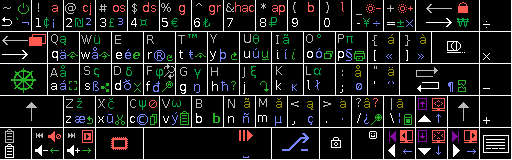
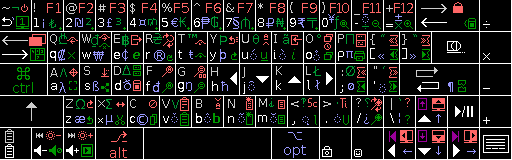
Make key names and locations more familiar

diff --git a/kbrd/src/keycodes.rs b/kbrd/src/keycodes.rs
@@ -264,7 +264,7 @@ impl Into<u8> for Keycode {
     }
 }
 
-/// Rynvei Keyboard Keycode
+/// Key on a Keyboard
 #[repr(u8)]
 #[derive(Copy, Clone, Debug)]
 pub enum Key {
@@ -285,7 +285,7 @@ pub enum Key {
     Backspace = 0x0D,
     Divide = 0x0F,
     // Row 2
-    Indent = 0x10,
+    Tab = 0x10,
     Q = 0x11,
     W = 0x12,
     E = 0x13,
@@ -301,7 +301,7 @@ pub enum Key {
     Compose = 0x1D,
     Multiply = 0x1F,
     // Row 3
-    Command = 0x20,
+    Ctrl = 0x20,
     A = 0x21,
     S = 0x22,
     D = 0x23,
@@ -335,7 +335,7 @@ pub enum Key {
     Clipboard = 0x40,
     Quieter = 0x41,
     Louder = 0x42,
-    System = 0x43,
+    Alt = 0x43,
     Space = 0x44,
     Opt = 0x48,
     Screenshot = 0x4A,
@@ -404,12 +404,12 @@ pub struct Mods(u8);
 impl Mods {
     /// Check if modifiers held.
     #[inline(always)]
-    pub fn held(&self, shift: bool, command: bool, system: bool, option: bool) -> bool {
+    pub fn held(&self, shift: bool, control: bool, alt: bool, option: bool) -> bool {
         let state = (shift as u8 * CAP)
-            | (command as u8 * CMD)
-            | (system as u8 * SYS)
-            | (option as u8 * ALT);
-        (self.0 & (CAP | CMD | SYS | ALT)) != state
+            | (control as u8 * CTR)
+            | (alt as u8 * ALT)
+            | (option as u8 * OPT);
+        (self.0 & (CAP | CTR | ALT | OPT)) != state
     }
 
     /// Clear modifiers
@@ -424,26 +424,26 @@ impl Mods {
 }
 
 /// Shift Modifier Key
-const CAP: u8 = 0b1000_0000;
+pub(super) const CAP: u8 = 0b1000_0000;
 /// Command Modifier Key
-const CMD: u8 = 0b0100_0000;
+pub(super) const ALT: u8 = 0b1100_0000;
 /// Control Modifier Key
-const SYS: u8 = 0b0010_0000;
+pub(super) const CTR: u8 = 0b0100_0000;
 /// Alternate Grapheme Modifier Key
-const ALT: u8 = 0b0001_0000;
+pub(super) const OPT: u8 = 0b0010_0000;
 
 /// Table Mappings JavaScript Keycodes To Rynvei Keycodes
 pub const MAPPINGS: &[Option<&[(Key, Mods)]>; 255] = &[
     None,                                                  // Unknown0 = 0,
     None,                                                  // Unknown1 = 1,
     None,                                                  // Unknown2 = 2,
-    Some(&[(Key::C, Mods(CMD))]),                          // Break = 3, "Cancel"
+    Some(&[(Key::C, Mods(ALT))]),                          // Break = 3, "Cancel"
     None,                                                  // Unknown4 = 4,
     None,                                                  // Unknown5 = 5,
     None,                                                  // Unknown6 = 6,
     None,                                                  // Unknown7 = 7,
     Some(&[(Key::Backspace, Mods(0))]),                    // Backspace = 8,
-    Some(&[(Key::Indent, Mods(0))]),                       // Tab = 9,
+    Some(&[(Key::Tab, Mods(0))]),                          // Tab = 9,
     None,                                                  // Unknown10 = 10,
     None,                                                  // Unknown11 = 11,
     Some(&[(Key::Clear, Mods(0))]),                        // Clear = 12,
@@ -451,10 +451,10 @@ pub const MAPPINGS: &[Option<&[(Key, Mods)]>; 255] = &[
     None,                                                  // Unknown14 = 14,
     None,                                                  // Unknown15 = 15,
     Some(&[(Key::Shift, Mods(0))]),                        // Shift = 16,
-    Some(&[(Key::System, Mods(0))]),                       // Ctrl = 17,
-    Some(&[(Key::Clipboard, Mods(0))]),                    // Alt = 18,
+    Some(&[(Key::Ctrl, Mods(0))]),                         // Ctrl = 17,
+    Some(&[(Key::Alt, Mods(0))]),                          // Alt = 18,
     Some(&[(Key::Pause, Mods(0))]),                        // PauseBreak = 19,
-    Some(&[(Key::Command, Mods(0))]),                      // CapsLock = 20,
+    Some(&[(Key::Clipboard, Mods(0))]),                    // CapsLock = 20,
     Some(&[(Key::Input, Mods(0)), (Key::One, Mods(0))]),   // Hangul = 21,
     None,                                                  // Unknown22 = 22,
     None,                                                  // Unknown23 = 23,
@@ -466,10 +466,10 @@ pub const MAPPINGS: &[Option<&[(Key, Mods)]>; 255] = &[
     None,                                                  // Unknown30 = 30,
     None,                                                  // Unknown31 = 31,
     Some(&[(Key::Space, Mods(0))]),                        // Space = 32,
-    Some(&[(Key::Up, Mods(SYS))]),                         // PageUp = 33,
-    Some(&[(Key::Down, Mods(SYS))]),                       // PageDown = 34,
-    Some(&[(Key::Left, Mods(SYS | CAP))]),                 // End = 35,
-    Some(&[(Key::Right, Mods(SYS | CAP))]),                // Home = 36,
+    Some(&[(Key::Up, Mods(CTR))]),                         // PageUp = 33,
+    Some(&[(Key::Down, Mods(CTR))]),                       // PageDown = 34,
+    Some(&[(Key::Left, Mods(CTR | CAP))]),                 // End = 35,
+    Some(&[(Key::Right, Mods(CTR | CAP))]),                // Home = 36,
     Some(&[(Key::Left, Mods(0))]),                         // Left = 37,
     Some(&[(Key::Up, Mods(0))]),                           // Up = 38,
     Some(&[(Key::Right, Mods(0))]),                        // Right = 39,
@@ -480,7 +480,7 @@ pub const MAPPINGS: &[Option<&[(Key, Mods)]>; 255] = &[
     Some(&[(Key::Screenshot, Mods(0))]),                   // PrintScreen = 44,
     Some(&[(Key::Input, Mods(0))]),                        // Insert = 45,
     Some(&[(Key::Backspace, Mods(CAP))]),                  // Delete = 46,
-    Some(&[(Key::H, Mods(SYS))]),                          // Help = 47,
+    Some(&[(Key::H, Mods(CTR))]),                          // Help = 47,
     Some(&[(Key::Zero, Mods(0))]),                         // Zero = 48,
     Some(&[(Key::One, Mods(0))]),                          // One = 49,
     Some(&[(Key::Two, Mods(0))]),                          // Two = 50,
@@ -496,7 +496,7 @@ pub const MAPPINGS: &[Option<&[(Key, Mods)]>; 255] = &[
     Some(&[(Key::Comma, Mods(CAP))]),                      // Less = 60,
     Some(&[(Key::Equal, Mods(0))]),                        // EqualFirefox = 61,
     None,                                                  // Unknown62 = 62,
-    Some(&[(Key::S, Mods(ALT))]),                          // SS = 63,
+    Some(&[(Key::S, Mods(OPT))]),                          // SS = 63,
     Some(&[(Key::Two, Mods(CAP))]),                        // AtFirefox = 64,
     Some(&[(Key::A, Mods(0))]),                            // A = 65,
     Some(&[(Key::B, Mods(0))]),                            // B = 66,
@@ -524,11 +524,11 @@ pub const MAPPINGS: &[Option<&[(Key, Mods)]>; 255] = &[
     Some(&[(Key::X, Mods(0))]),                            // X = 88,
     Some(&[(Key::Y, Mods(0))]),                            // Y = 89,
     Some(&[(Key::Z, Mods(0))]),                            // Z = 90,
-    Some(&[(Key::System, Mods(0))]),                       // LeftWinCmdSearchKey = 91,
+    Some(&[(Key::Ctrl, Mods(0))]),                         // LeftWinCmdSearchKey = 91,
     Some(&[(Key::Input, Mods(0))]),                        // RightWinKey = 92,
     Some(&[(Key::Menu, Mods(0))]),                         // MenuRightCmd = 93,
     None,                                                  // Unknown94 = 94,
-    Some(&[(Key::Semicolon, Mods(SYS))]),                  // Sleep = 95,
+    Some(&[(Key::Backspace, Mods(ALT))]),                  // Sleep = 95,
     Some(&[(Key::NumpadZero, Mods(0))]),                   // Numpad0 = 96,
     Some(&[(Key::NumpadOne, Mods(0))]),                    // Numpad1 = 97,
     Some(&[(Key::NumpadTwo, Mods(0))]),                    // Numpad2 = 98,
@@ -545,18 +545,18 @@ pub const MAPPINGS: &[Option<&[(Key, Mods)]>; 255] = &[
     Some(&[(Key::Subtract, Mods(0))]),                     // Subtract = 109,
     Some(&[(Key::NumpadDecimal, Mods(0))]),                // Decimal = 110,
     Some(&[(Key::Divide, Mods(0))]),                       // Divide = 111,
-    Some(&[(Key::One, Mods(SYS))]),                        // F1 = 112,
-    Some(&[(Key::Two, Mods(SYS))]),                        // F2 = 113,
-    Some(&[(Key::Three, Mods(SYS))]),                      // F3 = 114,
-    Some(&[(Key::Four, Mods(SYS))]),                       // F4 = 115,
-    Some(&[(Key::Five, Mods(SYS))]),                       // F5 = 116,
-    Some(&[(Key::Six, Mods(SYS))]),                        // F6 = 117,
-    Some(&[(Key::Seven, Mods(SYS))]),                      // F7 = 118,
-    Some(&[(Key::Eight, Mods(SYS))]),                      // F8 = 119,
-    Some(&[(Key::Nine, Mods(SYS))]),                       // F9 = 120,
-    Some(&[(Key::Zero, Mods(SYS))]),                       // F10 = 121,
-    Some(&[(Key::Minus, Mods(SYS))]),                      // F11 = 122,
-    Some(&[(Key::Equal, Mods(SYS))]),                      // F12 = 123,
+    Some(&[(Key::One, Mods(ALT))]),                        // F1 = 112,
+    Some(&[(Key::Two, Mods(ALT))]),                        // F2 = 113,
+    Some(&[(Key::Three, Mods(ALT))]),                      // F3 = 114,
+    Some(&[(Key::Four, Mods(ALT))]),                       // F4 = 115,
+    Some(&[(Key::Five, Mods(ALT))]),                       // F5 = 116,
+    Some(&[(Key::Six, Mods(ALT))]),                        // F6 = 117,
+    Some(&[(Key::Seven, Mods(ALT))]),                      // F7 = 118,
+    Some(&[(Key::Eight, Mods(ALT))]),                      // F8 = 119,
+    Some(&[(Key::Nine, Mods(ALT))]),                       // F9 = 120,
+    Some(&[(Key::Zero, Mods(ALT))]),                       // F10 = 121,
+    Some(&[(Key::Minus, Mods(ALT))]),                      // F11 = 122,
+    Some(&[(Key::Equal, Mods(ALT))]),                      // F12 = 123,
     Some(&[(Key::F13, Mods(0))]),                          // F13 = 124,
     Some(&[(Key::F14, Mods(0))]),                          // F14 = 125,
     Some(&[(Key::F15, Mods(0))]),                          // F15 = 126,
@@ -598,14 +598,14 @@ pub const MAPPINGS: &[Option<&[(Key, Mods)]>; 255] = &[
     None,                                                  // Unknown162 = 162,
     Some(&[(Key::Three, Mods(CAP))]),                      // Number = 163,
     Some(&[(Key::Four, Mods(CAP))]),                       // Dollar = 164,
-    Some(&[(Key::F13, Mods(SYS))]),                        // GraveU = 165,
-    Some(&[(Key::Left, Mods(SYS))]),                       // PageBackward = 166,
-    Some(&[(Key::Right, Mods(SYS))]),                      // PageForward = 167,
-    Some(&[(Key::R, Mods(SYS))]),                          // Refresh = 168,
+    Some(&[(Key::F13, Mods(CTR))]),                        // GraveU = 165,
+    Some(&[(Key::Left, Mods(CTR))]),                       // PageBackward = 166,
+    Some(&[(Key::Right, Mods(CTR))]),                      // PageForward = 167,
+    Some(&[(Key::R, Mods(CTR))]),                          // Refresh = 168,
     Some(&[(Key::Zero, Mods(CAP))]),                       // ClosingParenAzerty = 169,
     Some(&[(Key::Eight, Mods(CAP))]),                      // Asterisk = 170,
     Some(&[(Key::Back, Mods(CAP))]),                       // Tilde = 171,
-    Some(&[(Key::Right, Mods(SYS | CAP))]),                // HomeAlternate = 172,
+    Some(&[(Key::Right, Mods(CTR | CAP))]),                // HomeAlternate = 172,
     Some(&[(Key::Subtract, Mods(0))]),                     // SubtractFirefox = 173,
     Some(&[(Key::Quieter, Mods(0))]),                      // DecreaseVolume = 174,
     Some(&[(Key::Louder, Mods(0))]),                       // IncreaseVolume = 175,
@@ -614,7 +614,7 @@ pub const MAPPINGS: &[Option<&[(Key, Mods)]>; 255] = &[
     Some(&[(Key::Pause, Mods(CAP))]),                      // Stop = 178,
     Some(&[(Key::Pause, Mods(0))]),                        // PlayPause = 179,
     Some(&[(Key::Clear, Mods(0))]),                        // Email = 180,
-    Some(&[(Key::Quieter, Mods(SYS))]),                    // MuteUnmute = 181,
+    Some(&[(Key::Quieter, Mods(ALT))]),                    // MuteUnmute = 181,
     Some(&[(Key::Quieter, Mods(0))]),                      // DecreaseVolumeFirefox = 182,
     Some(&[(Key::Louder, Mods(CAP))]),                     // IncreaseVolumeFirefox = 183,
     None,                                                  // Unknown184 = 184,
@@ -625,7 +625,7 @@ pub const MAPPINGS: &[Option<&[(Key, Mods)]>; 255] = &[
     Some(&[(Key::Minus, Mods(0))]),                        // Dash = 189,
     Some(&[(Key::Period, Mods(0))]),                       // Period = 190,
     Some(&[(Key::Slash, Mods(0))]),                        // ForwardSlash = 191,
-    Some(&[(Key::Back, Mods(CMD))]),                       // GraveAccent = 192,
+    Some(&[(Key::Back, Mods(ALT))]),                       // GraveAccent = 192,
     Some(&[(Key::Slash, Mods(CAP))]),                      // Question = 193,
     Some(&[(Key::NumpadDecimal, Mods(0))]),                // DecimalChrome = 194,
     None,                                                  // Unknown195 = 195,
@@ -656,15 +656,15 @@ pub const MAPPINGS: &[Option<&[(Key, Mods)]>; 255] = &[
     Some(&[(Key::Backslash, Mods(0))]),                    // Backslash = 220,
     Some(&[(Key::RightBracket, Mods(0))]),                 // CloseBracket = 221,
     Some(&[(Key::Quote, Mods(0))]),                        // SingleQuote = 222,
-    Some(&[(Key::Back, Mods(CMD))]),                       // Backtick = 223,
-    Some(&[(Key::System, Mods(0))]),                       // CmdFirefox = 224,
+    Some(&[(Key::Back, Mods(ALT))]),                       // Backtick = 223,
+    Some(&[(Key::Ctrl, Mods(0))]),                         // CmdFirefox = 224,
     Some(&[(Key::Opt, Mods(0))]),                          // AltGr = 225,
     Some(&[(Key::Backslash, Mods(0))]),                    // BackslashUK = 226,
     None,                                                  // Unknown227 = 227,
     None,                                                  // Unknown228 = 228,
     None,                                                  // Unknown229 = 229,
     Some(&[(Key::Compose, Mods(0))]),                      // ComposeKeyGnome = 230,
-    Some(&[(Key::C, Mods(ALT))]),                          // CWithTail = 231,
+    Some(&[(Key::C, Mods(OPT))]),                          // CWithTail = 231,
     None,                                                  // Unknown232 = 232,
     Some(&[(Key::Forward, Mods(0))]),                      // Xf86Forward = 233,
     Some(&[(Key::Backward, Mods(0))]),                     // Xf86Backward = 234,
@@ -688,5 +688,5 @@ pub const MAPPINGS: &[Option<&[(Key, Mods)]>; 255] = &[
     None,                                                  // Unknown252 = 252,
     None,                                                  // Unknown253 = 253,
     None,                                                  // Unknown254 = 254,
-    Some(&[(Key::Input, Mods(SYS))]),                      // ToggleTouchpad = 255,
+    Some(&[(Key::Input, Mods(ALT))]),                      // ToggleTouchpad = 255,
 ];

diff --git a/kbrd/src/lib.rs b/kbrd/src/lib.rs
@@ -1,9 +1,11 @@
+//! Rust library for sending and receiving asynchronous keyboard events.
+
 pub mod keycodes;
 
-use keycodes::Mods;
+use keycodes::{Key, Mods as Mod};
 
 /// Process pressing a key.
-pub fn press<K: Into<u8>, F: FnMut(&Mods, u8)>(mods: &mut Mods, keycode: K, mut process: F) {
+pub fn press<K: Into<u8>, F: FnMut(&Mod, u8)>(mods: &mut Mod, keycode: K, mut process: F) {
     if let Some(events) = keycodes::MAPPINGS[keycode.into() as usize] {
         for (key, modifiers) in events.iter().cloned() {
             mods.set(modifiers);
@@ -11,14 +13,74 @@ pub fn press<K: Into<u8>, F: FnMut(&Mods, u8)>(mods: &mut Mods, keycode: K, mut 
         }
     }
 }
+
 /// Process releasing a key.
-pub fn release<K: Into<u8>, F: FnMut(&Mods, u8)>(mods: &mut Mods, keycode: K, mut process: F) {
+pub fn release<K: Into<u8>, F: FnMut(&Mod, u8)>(mods: &mut Mod, keycode: K, mut process: F) {
     if let Some(events) = keycodes::MAPPINGS[keycode.into() as usize] {
         for (key, modifiers) in events.iter().cloned() {
             mods.clear(modifiers);
             process(mods, key as u8);
         }
     }
+}
+
+/// Modifier Keys
+pub enum Mods {
+    /// No modifiers
+    None = 0b0000_0000,
+    /// "Shift"
+    Shift = 0b1000_0000,
+    /// "Control + Shift" (Windows, Linux, Rynvei), "Left Alt" (Windows, Linux,
+    /// Rynvei), "Control" (Mac), "Cmd + Shift" (Mac)
+    Alt = 0b1100_0000,
+    /// "Left Cmd" (Mac), "Ctrl" (Windows, Linux, Rynvei)
+    Ctrl = 0b0100_0000,
+    /// "Left Option" (Mac, Rynvei), "AltGr" (Windows) or "Right Alt" (Linux)
+    Opt = 0b0010_0000,
+    /// "Left Option + Shift" (Mac, Rynvei), "AltGr + Shift" (Windows, Linux)
+    ShiftOpt = 0b1010_0000,
+    /// Also "Left Thumb + Right Thumb"
+    CtrlOpt = 0b0110_000,
+}
+
+/// Repeat
+const REPEAT: u8 = 0b0000_0010;
+/// Pressed
+const PRESS: u8 = 0b0000_0001;
+/// "Right Option" (Mac), "Insert" (Windows, Linux)
+const COMPOSE: u8 = 0b0001_0000;
+/// "CapsLock" (Windows, Linux, Mac)
+const CLIPBOARD: u8 = 0b0000_1000;
+/// "Right Control" (Windows, Linux), "Right Cmd" (Mac)
+const EMOJI: u8 = 0b0000_0100;
+
+/// State of a key.
+#[repr(transparent)]
+pub struct State(u8);
+
+impl State {
+    /// Check if key state got changed to PRESSED (true) or RELEASED (false).
+    #[inline(always)]
+    pub fn pressed(&self) -> bool {
+        self.0 & (PRESS | REPEAT) == PRESS
+    }
+
+    /// Textual input repeated key.
+    #[inline(always)]
+    pub fn repeated(&self) -> bool {
+        self.0 & REPEAT == REPEAT
+    }
+
+    /// Key either repeated or pressed.
+    #[inline(always)]
+    pub fn inputted(&self) -> bool {
+        self.0 & (PRESS | REPEAT) != 0
+    }
+}
+
+/// Asynchronous wait for key state changes.  Returns the new state.
+pub async fn key(key: Key, mods: Option<Mods>) -> State {
+    State(0)
 }
 
 #[cfg(test)]
